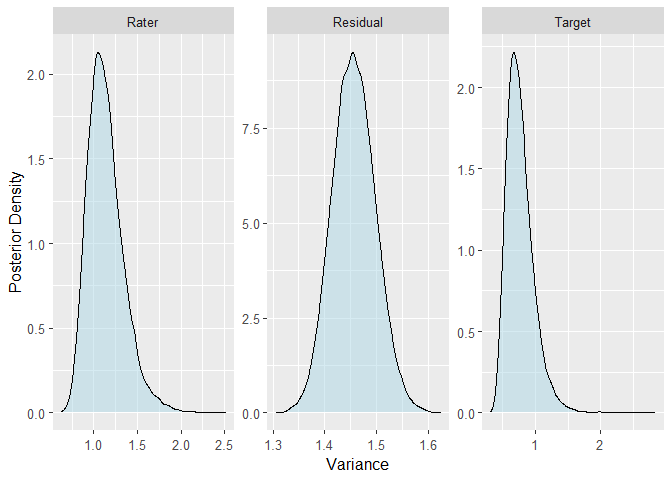
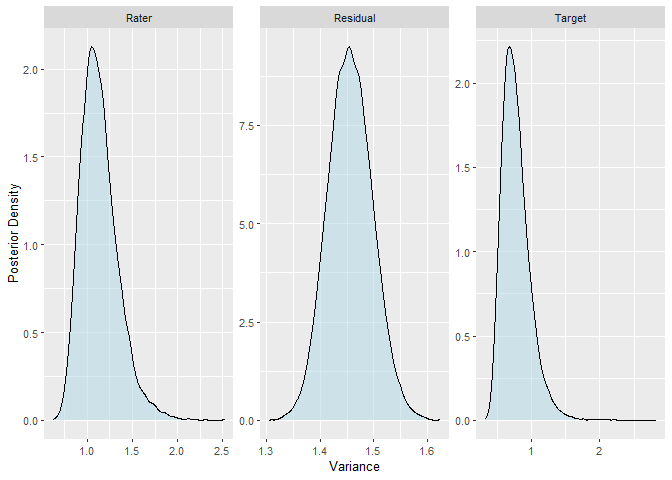
Improve formatting

diff --git a/README.md b/README.md
@@ -45,7 +45,9 @@ fit_1 <- brms::brm(
   iter = 10000,
   seed = 2022
 )
+```
 
+``` r
 # Extract variance component estimates
 res_1 <- varde(fit_1)
 res_1
@@ -55,24 +57,26 @@ res_1
 #> 1 Rater        1.05  0.811  1.63   0.330 brms  
 #> 2 Target       0.681 0.471  1.26   0.214 brms  
 #> 3 Residual     1.45  1.38   1.54   0.457 brms
+```
 
+``` r
 # Create density plot of variance posteriors
 plot(res_1, type = "posterior")
 ```
 
-<img src="man/figures/README-res_1-1.png" width="100%" />
+![](man/figures/README-p1a-1.png)<!-- -->
 
 ``` r
-
 # Create river plot of variance percentages
-plot(res_1, type = "river", font_size = 4)
+plot(res_1, type = "river")
 ```
 
-<img src="man/figures/README-res_1-2.png" width="100%" />
+![](man/figures/README-p1b-1.png)<!-- -->
 
 ### Simple Two-Way ICC for Inter-Rater Reliability
 
 ``` r
+# Calculate variance components and ICCs
 res_3 <- calc_icc(
   .data = ppa_type1, 
   subject = "Target",
@@ -81,15 +85,22 @@ res_3 <- calc_icc(
 )
 res_3
 #> # A tibble: 9 × 6
-#>   term                icc lower upper raters error   
+#>   term                est lower upper raters error   
 #>   <chr>             <dbl> <dbl> <dbl>  <dbl> <chr>   
-#> 1 Subject Variance  0.710 0.482 1.28      NA <NA>    
-#> 2 Rater Variance    1.07  0.811 1.62      NA <NA>    
-#> 3 Residual Variance 1.45  1.38  1.54      NA <NA>    
-#> 4 ICC(A,1)          0.219 0.154 0.336      1 Absolute
-#> 5 ICC(A,k)          0.956 0.929 0.973     72 Absolute
-#> 6 ICC(A,khat)       0.956 0.929 0.973     72 Absolute
-#> 7 ICC(C,1)          0.330 0.248 0.470      1 Relative
-#> 8 ICC(C,k)          0.975 0.960 0.985     72 Relative
-#> 9 ICC(Q,khat)       0.975 0.960 0.985     72 Relative
+#> 1 Subject Variance  0.672 0.471 1.27      NA <NA>    
+#> 2 Rater Variance    1.06  0.800 1.59      NA <NA>    
+#> 3 Residual Variance 1.46  1.38  1.54      NA <NA>    
+#> 4 ICC(A,1)          0.210 0.150 0.335      1 Absolute
+#> 5 ICC(A,k)          0.957 0.927 0.973     72 Absolute
+#> 6 ICC(A,khat)       0.957 0.927 0.973     72 Absolute
+#> 7 ICC(C,1)          0.320 0.244 0.468      1 Relative
+#> 8 ICC(C,k)          0.975 0.959 0.984     72 Relative
+#> 9 ICC(Q,khat)       0.975 0.959 0.984     72 Relative
 ```
+
+``` r
+# Create density plot of all posteriors
+plot(res_3, components = "all")
+```
+
+![](man/figures/README-p2-1.png)<!-- -->
